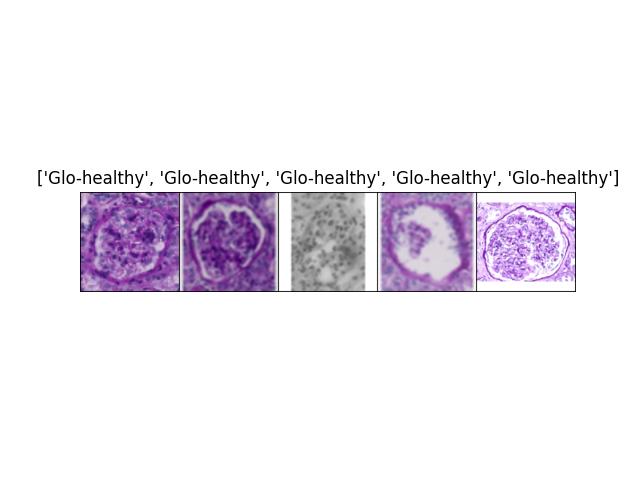
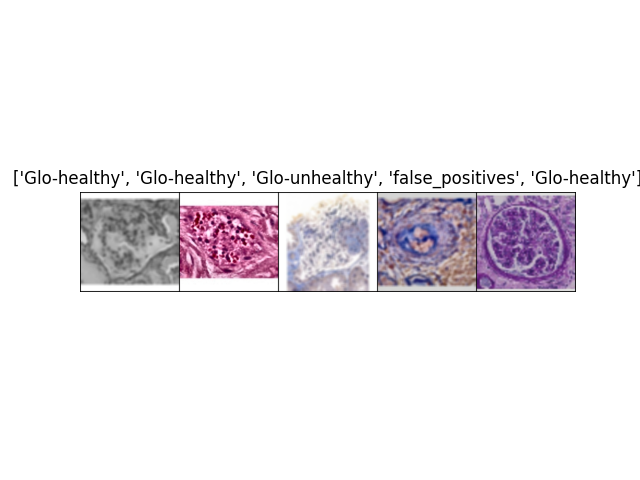
added data balance

Changed region(s): [[0.0312, 0.3438, 1.0, 0.625]]

diff --git a/helical/cnn_train_func.py b/helical/cnn_train_func.py
@@ -44,13 +44,7 @@ def prepare_data(cnn_root_fold:str, map_classes:dict, batch:int, num_workers:int
 
 def show_data(images:torch.Tensor, pred_lbl:torch.Tensor, 
               gt_lbl:torch.Tensor, map_classes:dict, n_epoch:int = None):
-
-    # print(type(images))
-    # print(type(pred_lbl))
-    # print(type(gt_lbl))
-    # print(images.shape)
-    # print(pred_lbl.shape)
-    # print(gt_lbl.shape)
+    """ Plots images during training. """
     
     def imshow(inp:torch.Tensor, title=None, n_epoch:int=None):
 
@@ -64,15 +58,9 @@ def show_data(images:torch.Tensor, pred_lbl:torch.Tensor,
         plt.close()
         return
 
-
     images = images.cpu()
     pred_lbl = pred_lbl.cpu()
     gt_lbl = gt_lbl.cpu()
-
-    # print(pred_lbl)
-    # print(gt_lbl)
-    # title = f"Epoch:{n_epoch}" if n_epoch is not None else "Epoch:_"
-
     out = torchvision.utils.make_grid(images)
     onehot2int = lambda tensor: tensor.argmax() 
     reversed_map_classes = {v:k for k,v in map_classes.items()}
@@ -81,63 +69,9 @@ def show_data(images:torch.Tensor, pred_lbl:torch.Tensor,
     title = [f"P:{pr}_GT:{gt}" for pr, gt in zip(pred_titles, gt_titles)]
 
     imshow(out, title=title, n_epoch=n_epoch)
-
-    # raise NotImplementedError()
-
-    
     
     return
 
-
-
-# def show_data(inputs:torch.Tensor, labels:torch.Tensor, map_classes:dict):
-
-#     def imshow(inp:torch.Tensor, title=None):
-
-
-#         inp = inp.permute((1,2,0)).numpy()
-
-#         # plt.figure(figsize=(10, 10))
-#         fig = plt.figure()
-#         plt.axis('off')
-#         plt.imshow(inp)
-#         if title is not None:
-#             plt.title(title)
-#         # plt.pause(0.001)
-#         fig.savefig('cnn_crops.png')
-#         plt.close()
-
-#     def show_databatch(inputs:torch.Tensor, classes:torch.Tensor, map_classes:dict):
-
-#         inputs = inputs.cpu()
-#         classes = inputs.cpu()
-#         print(type(inputs))
-#         print(type(classes))
-#         print(inputs.shape)
-#         print(classes.shape)
-
-#         out = torchvision.utils.make_grid(inputs)
-        
-#         onehot2int = lambda tensor: tensor.argmax() 
-
-#         reversed_map_classes = {v:k for k,v in map_classes.items()}
-
-#         # classes
-#         imshow(out, title=[reversed_map_classes[int(onehot2int(x))] for x in classes])
-
-#     # Get a batch of training data
-#     # classes = [self.map_classes[self.] for x in classes]
-#     # print(classes)
-#     print(type(inputs))
-#     print(type(labels))
-#     print(inputs.shape)
-#     print(labels.shape)
-
-
-#     show_databatch(inputs, labels)
-
-
-#     return 
 
 
 
@@ -147,10 +81,6 @@ def train_model(model, dataloader_cls, dataloaders, device, map_classes,
     since = time.time()
     best_model_wts = copy.deepcopy(model.state_dict())
     best_acc = 0.0
-    # device = 'cuda:0' if torch.cuda.is_available() else 'cpu'
-    # device = 'mps'
-    # device = print(f"Device: {device}")
-    
     avg_loss = 0
     avg_acc = 0
     avg_loss_val = 0
@@ -159,13 +89,11 @@ def train_model(model, dataloader_cls, dataloaders, device, map_classes,
     model.to(device)
     print(f"Model is on '{next(model.parameters()).device}'")
     criterion = criterion.to(device)
-    train_batches = len(dataloaders['train'])
-    val_batches = len(dataloaders['val'])
     
     for epoch in range(num_epochs):
+
         print("Epoch {}/{}".format(epoch, num_epochs))
         print('-' * 10)
-        
         loss_train = 0
         loss_val = 0
         acc_train = 0
@@ -184,10 +112,6 @@ def train_model(model, dataloader_cls, dataloaders, device, map_classes,
             t_batch = labels.shape[0]
             inputs = inputs.to(device)
             labels =  labels.to(device)
-
-            # print(inputs.type())
-            # print(labels.type())
-            
             
             optimizer.zero_grad()
             
@@ -205,19 +129,13 @@ def train_model(model, dataloader_cls, dataloaders, device, map_classes,
             optimizer.step()
             
             loss_train += loss.data
-            # print(f"labels shape: {labels.data.shape}")
-            # print(torch.sum(preds == true_classes))
             acc_train += (torch.sum(preds == true_classes) / t_batch) # number true classes for all images in batch
-
-            # raise NotImplementedError()
-            # assert inputs.is_cuda
             
             del inputs, labels, outputs, preds
             torch.cuda.empty_cache()
         
         avg_loss = loss_train / dataloader_cls.trainset_size
         avg_acc = acc_train / dataloader_cls.trainset_size
-        # print(f"train acc: {acc_train} / {dataloader_cls.trainset_size} = {avg_acc} ")
         
         model.train(False)
         model.eval()
@@ -232,12 +150,8 @@ def train_model(model, dataloader_cls, dataloaders, device, map_classes,
             v_batch = labels.shape[0]
             optimizer.zero_grad()
             
-            # raise NotImplementedError()
             outputs = model(inputs)
             _, preds = torch.max(outputs.data, 1, keepdim=True)
-            # print(f"\noutputs shape: {outputs.shape}")
-            # print(f"labels shape: {labels.data.shape}")
-            # print(f"labels shape: {labels.data.argmax(dim=1).shape}")
             loss = criterion(outputs, labels.data)
             
             loss_val += loss.data
@@ -248,7 +162,6 @@ def train_model(model, dataloader_cls, dataloaders, device, map_classes,
         
         avg_loss_val = loss_val / dataloader_cls.valset_size
         avg_acc_val = acc_val / dataloader_cls.valset_size
-        # print(f"val acc: {acc_val} / {dataloader_cls.valset_size} = {avg_acc_val} ")
 
         print(f"Epoch {epoch} result: ")
         print(f"Avg loss (train): {avg_loss:.4f}, Avg loss (val): {avg_loss_val:.4f} ")
@@ -291,11 +204,7 @@ def eval_model(model, dataloader_cls, dataloaders, criterion):
 
         # inputs, labels = data
         inputs, labels = inputs.to(device), labels.to(device)
-
         outputs = model(inputs)
-        # print(f"\noutputs shape: {outputs.shape}")
-        # print(f"labels shape: {labels.data.shape}")
-        # print(f"labels shape: {labels.data.argmax(dim=1).shape}")
         _, preds = torch.max(outputs.data, 1, keepdim=True)
         loss = criterion(outputs, labels)
 
@@ -314,3 +223,5 @@ def eval_model(model, dataloader_cls, dataloaders, criterion):
     print("Avg loss (test): {:.4f}".format(avg_loss))
     print("Avg acc (test): {:.4f}".format(avg_acc))
     print('-' * 10)
+
+    return

diff --git a/helical/cnn_assign_class_crop.py b/helical/cnn_assign_class_crop.py
@@ -5,7 +5,8 @@ import numpy as np
 import cv2
 from tqdm import tqdm
 from skimage.draw import rectangle
-
+import albumentations as A
+import random
 root_data: str # from here ground truth label. Should be a dataset wsi/tiles -> train/val/test -> images/labels
 exp_data: str # from here pred label
 
@@ -127,8 +128,6 @@ class CropLabeller():
         for img in tqdm(all_images, 'Padding crops'):
             self.resize_with_pad(image_fp=img, new_shape=new_shape, padding_color=padding_color)
         
-
-
         return
     
 
@@ -287,6 +286,55 @@ class CropLabeller():
             gt_classes.update({crop_fp:gt_class})
             
         return gt_classes
+    
+    def balance_dataset(self):
+
+        # get images
+        classes_folds = [ os.path.join(self.exp_data, 'crops_true_classes', fold) for fold in os.listdir(os.path.join(self.exp_data, 'crops_true_classes'))]
+        classes_folds = [ fold for fold in classes_folds if os.path.isdir(fold)]
+        assert len(classes_folds) > 0
+        classes_n_images = {clss_fp: len(os.listdir(clss_fp)) for clss_fp in classes_folds}
+        max_n_imgs = max(classes_n_images.values())
+
+        # albumentations funcs
+        transform = A.Compose([
+            A.ToGray(p=0.5),
+            A.HorizontalFlip(p=0.5),
+            A.CLAHE(p=0.5),
+            A.VerticalFlip(p=0.5),
+            A.RandomBrightnessContrast(p=0.2)])
+        change_name_augm = lambda fp, i: os.path.join(os.path.dirname(fp), f"Augm_{i}_{os.path.basename(fp)}")
+        
+        
+        for clss_fp, n_imgs in classes_n_images.items():
+
+            # skip max class, augment others
+            if n_imgs == max_n_imgs:
+                continue 
+
+            # get images
+            clss_images = glob(os.path.join(clss_fp, '*.jpg'))
+            clss_images = [img for img in clss_images if 'Augm' not in img]
+
+            assert len(clss_images)>0, f"No images like {os.path.join(clss_fp, '*.jpg')}"
+            n_imgs_to_make = max_n_imgs - n_imgs
+
+            print(f"Images to create: {n_imgs_to_make}")
+
+            # create new images:
+            for i in tqdm(range(n_imgs_to_make), desc=f'Augmenting {os.path.basename(clss_fp)}'): 
+                img_fp = random.choice(clss_images)
+                img = cv2.imread(img_fp, cv2.COLOR_BGR2RGB)
+                transformed_img = transform(image=img)['image']
+                write_fp = change_name_augm(img_fp, i)
+                if not os.path.isfile(write_fp):
+                    cv2.imwrite(write_fp, transformed_img)
+            
+            n_clss_imgs = len(glob(os.path.join(clss_fp, '*.jpg')))
+            assert n_clss_imgs == max_n_imgs
+            
+
+        return
 
 
     def __call__(self) -> None:
@@ -299,6 +347,8 @@ class CropLabeller():
         self.move_assigned_crops()
         if self.resize: 
             self.resize_images()
+        
+        self.balance_dataset()
 
         return
 

diff --git a/helical/cnn_dataset.py b/helical/cnn_dataset.py
@@ -32,6 +32,8 @@ class CNNDataset(Dataset):
         if self.dataset == 'train': 
             transform = A.Compose([
                 A.Blur(), 
+                A.CLAHE(),
+                A.ChannelShuffle(),
                 A.RandomBrightnessContrast(),
                 A.HorizontalFlip(),
                 A.VerticalFlip(),
